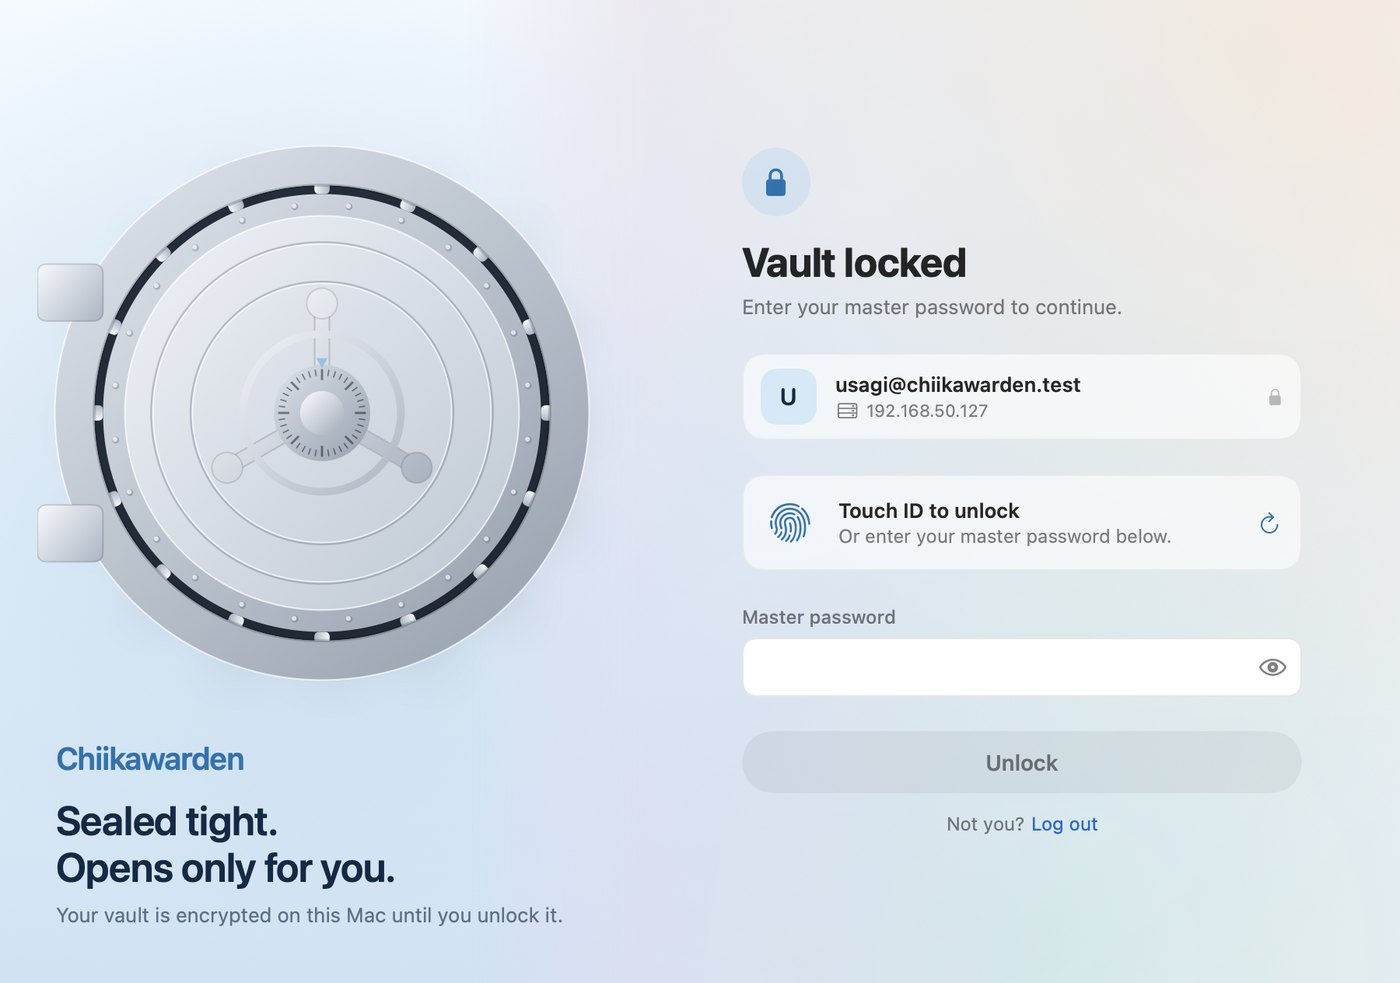
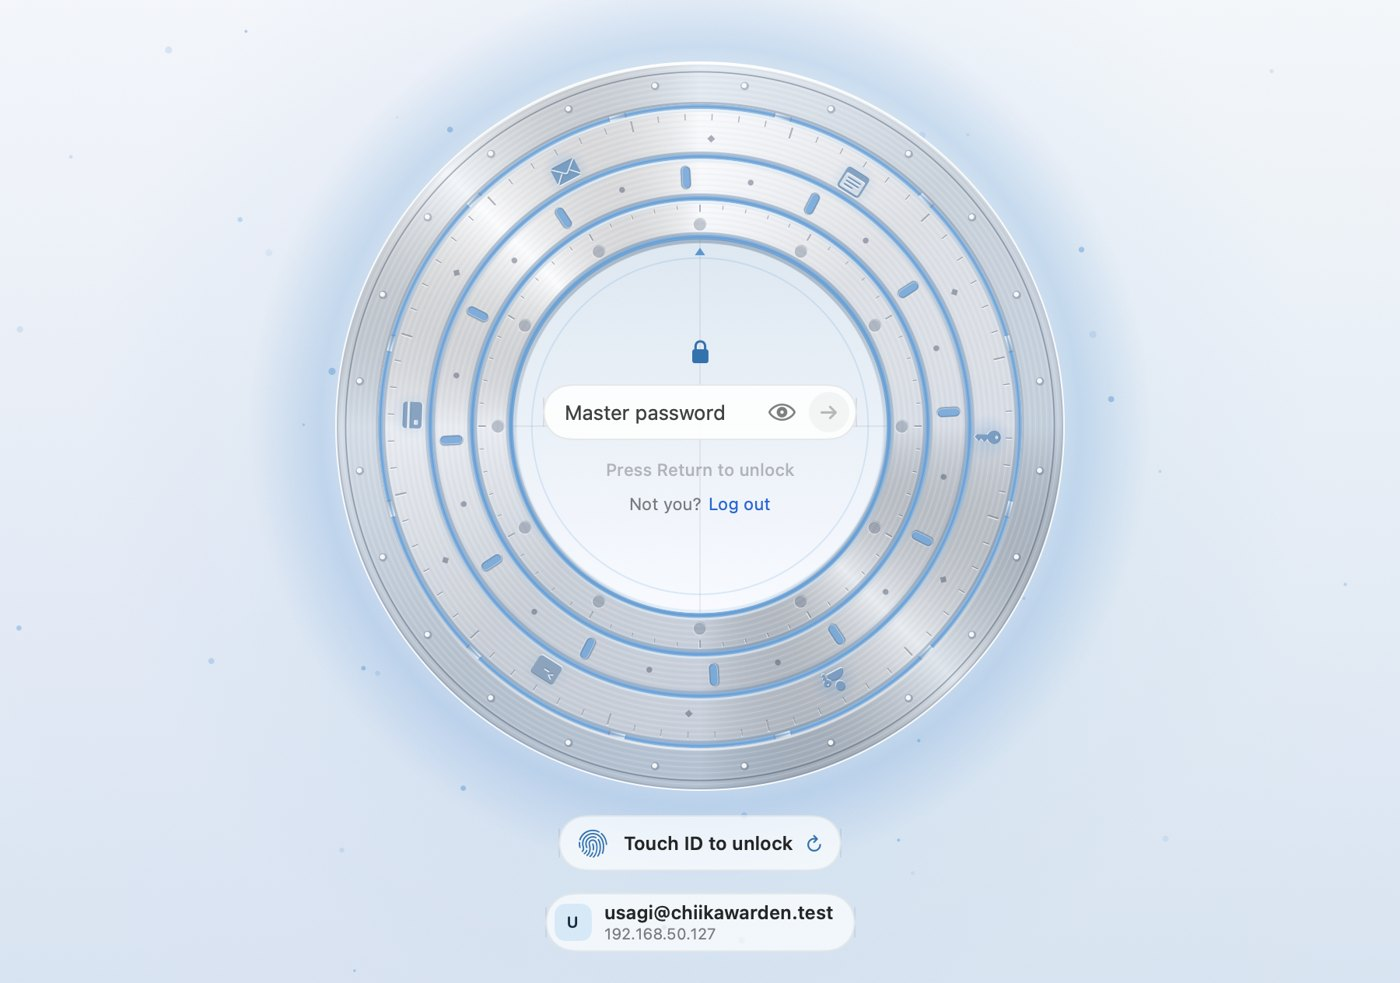
docs: README shows the transforming vault door and the gate

diff --git a/README.md b/README.md
@@ -69,9 +69,11 @@
   </tr>
 </table>
 
-Locking shows the vault door; unlocking turns the dial and the wheel, draws the bolts and swings it open:
+The lock is a vault door over the vault. You type the master password at its hub; each character lights a pin and
+turns the rings. On unlock the door takes itself apart, then the whole screen parts like a vault's inner gate:
 
-<p align="center"><img src="docs/images/door-sequence.jpg" width="820" alt="The vault door opening, in four steps"></p>
+<p align="center"><img src="docs/images/door-sequence.jpg" width="820" alt="The vault door: at rest, typing, unlatching, the hub opening, the louvres turning"></p>
+<p align="center"><img src="docs/images/gate.jpg" width="820" alt="The lock screen parting like a gate over the vault"></p>
 
 ## Install
 
